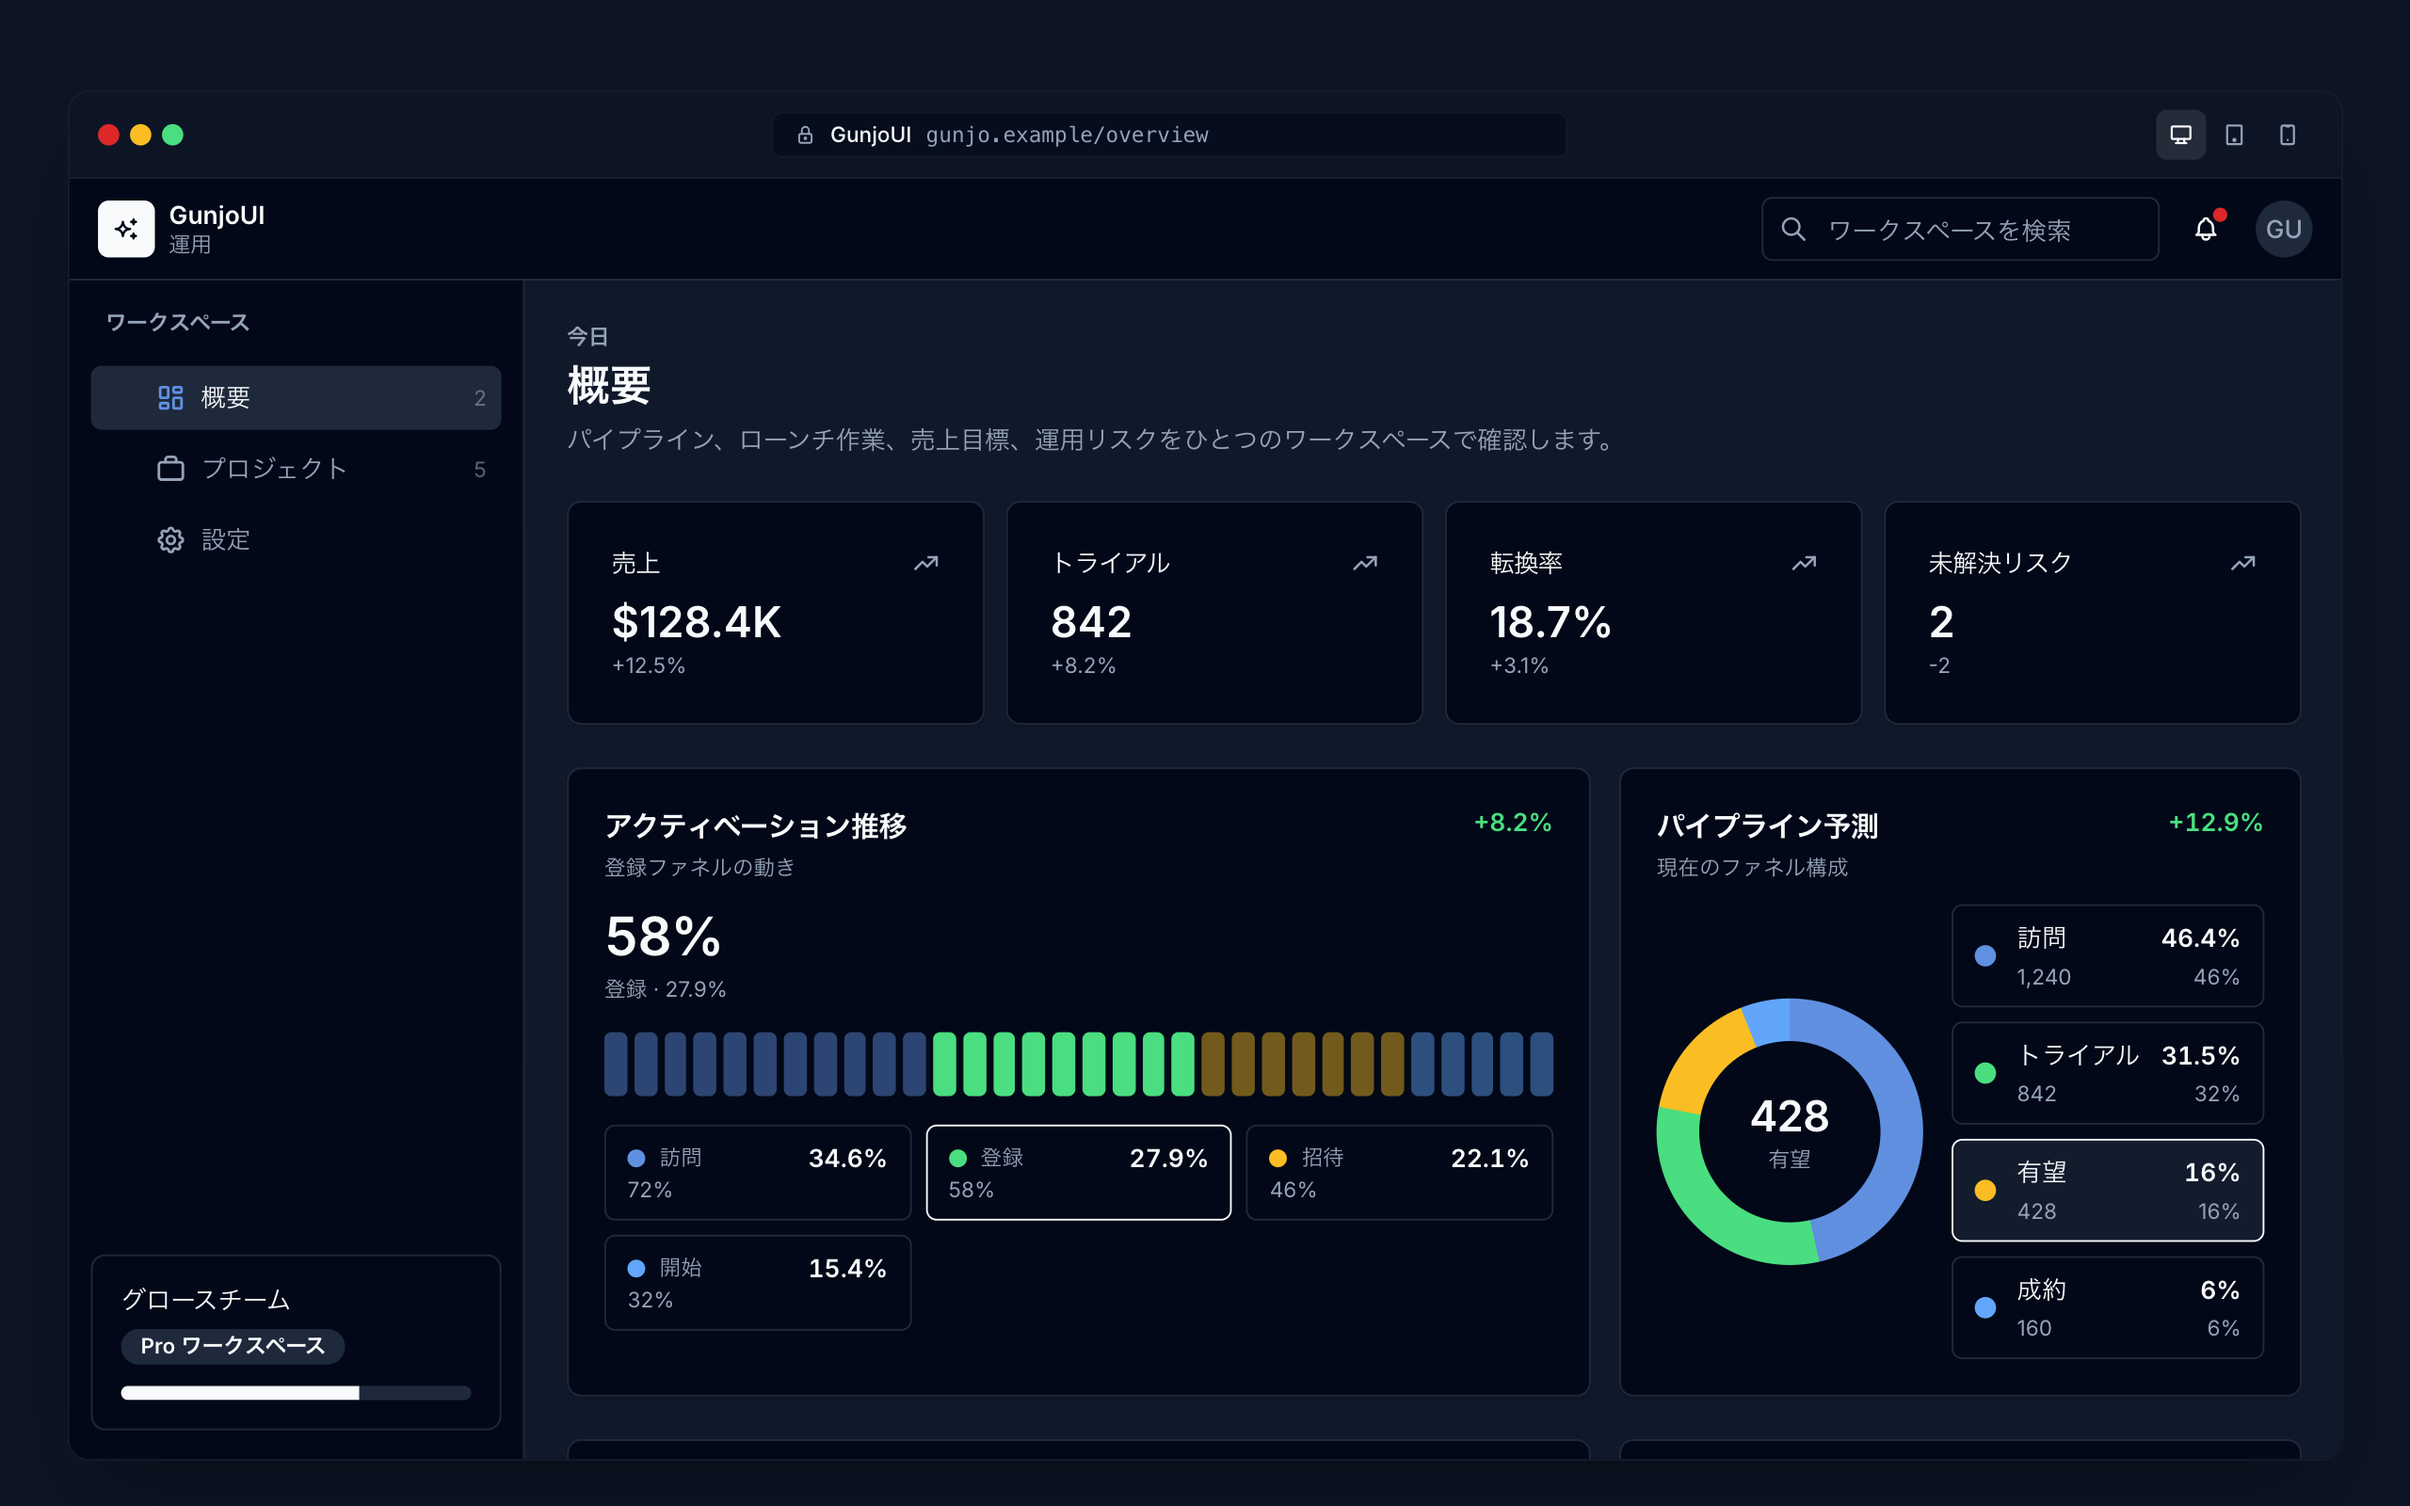
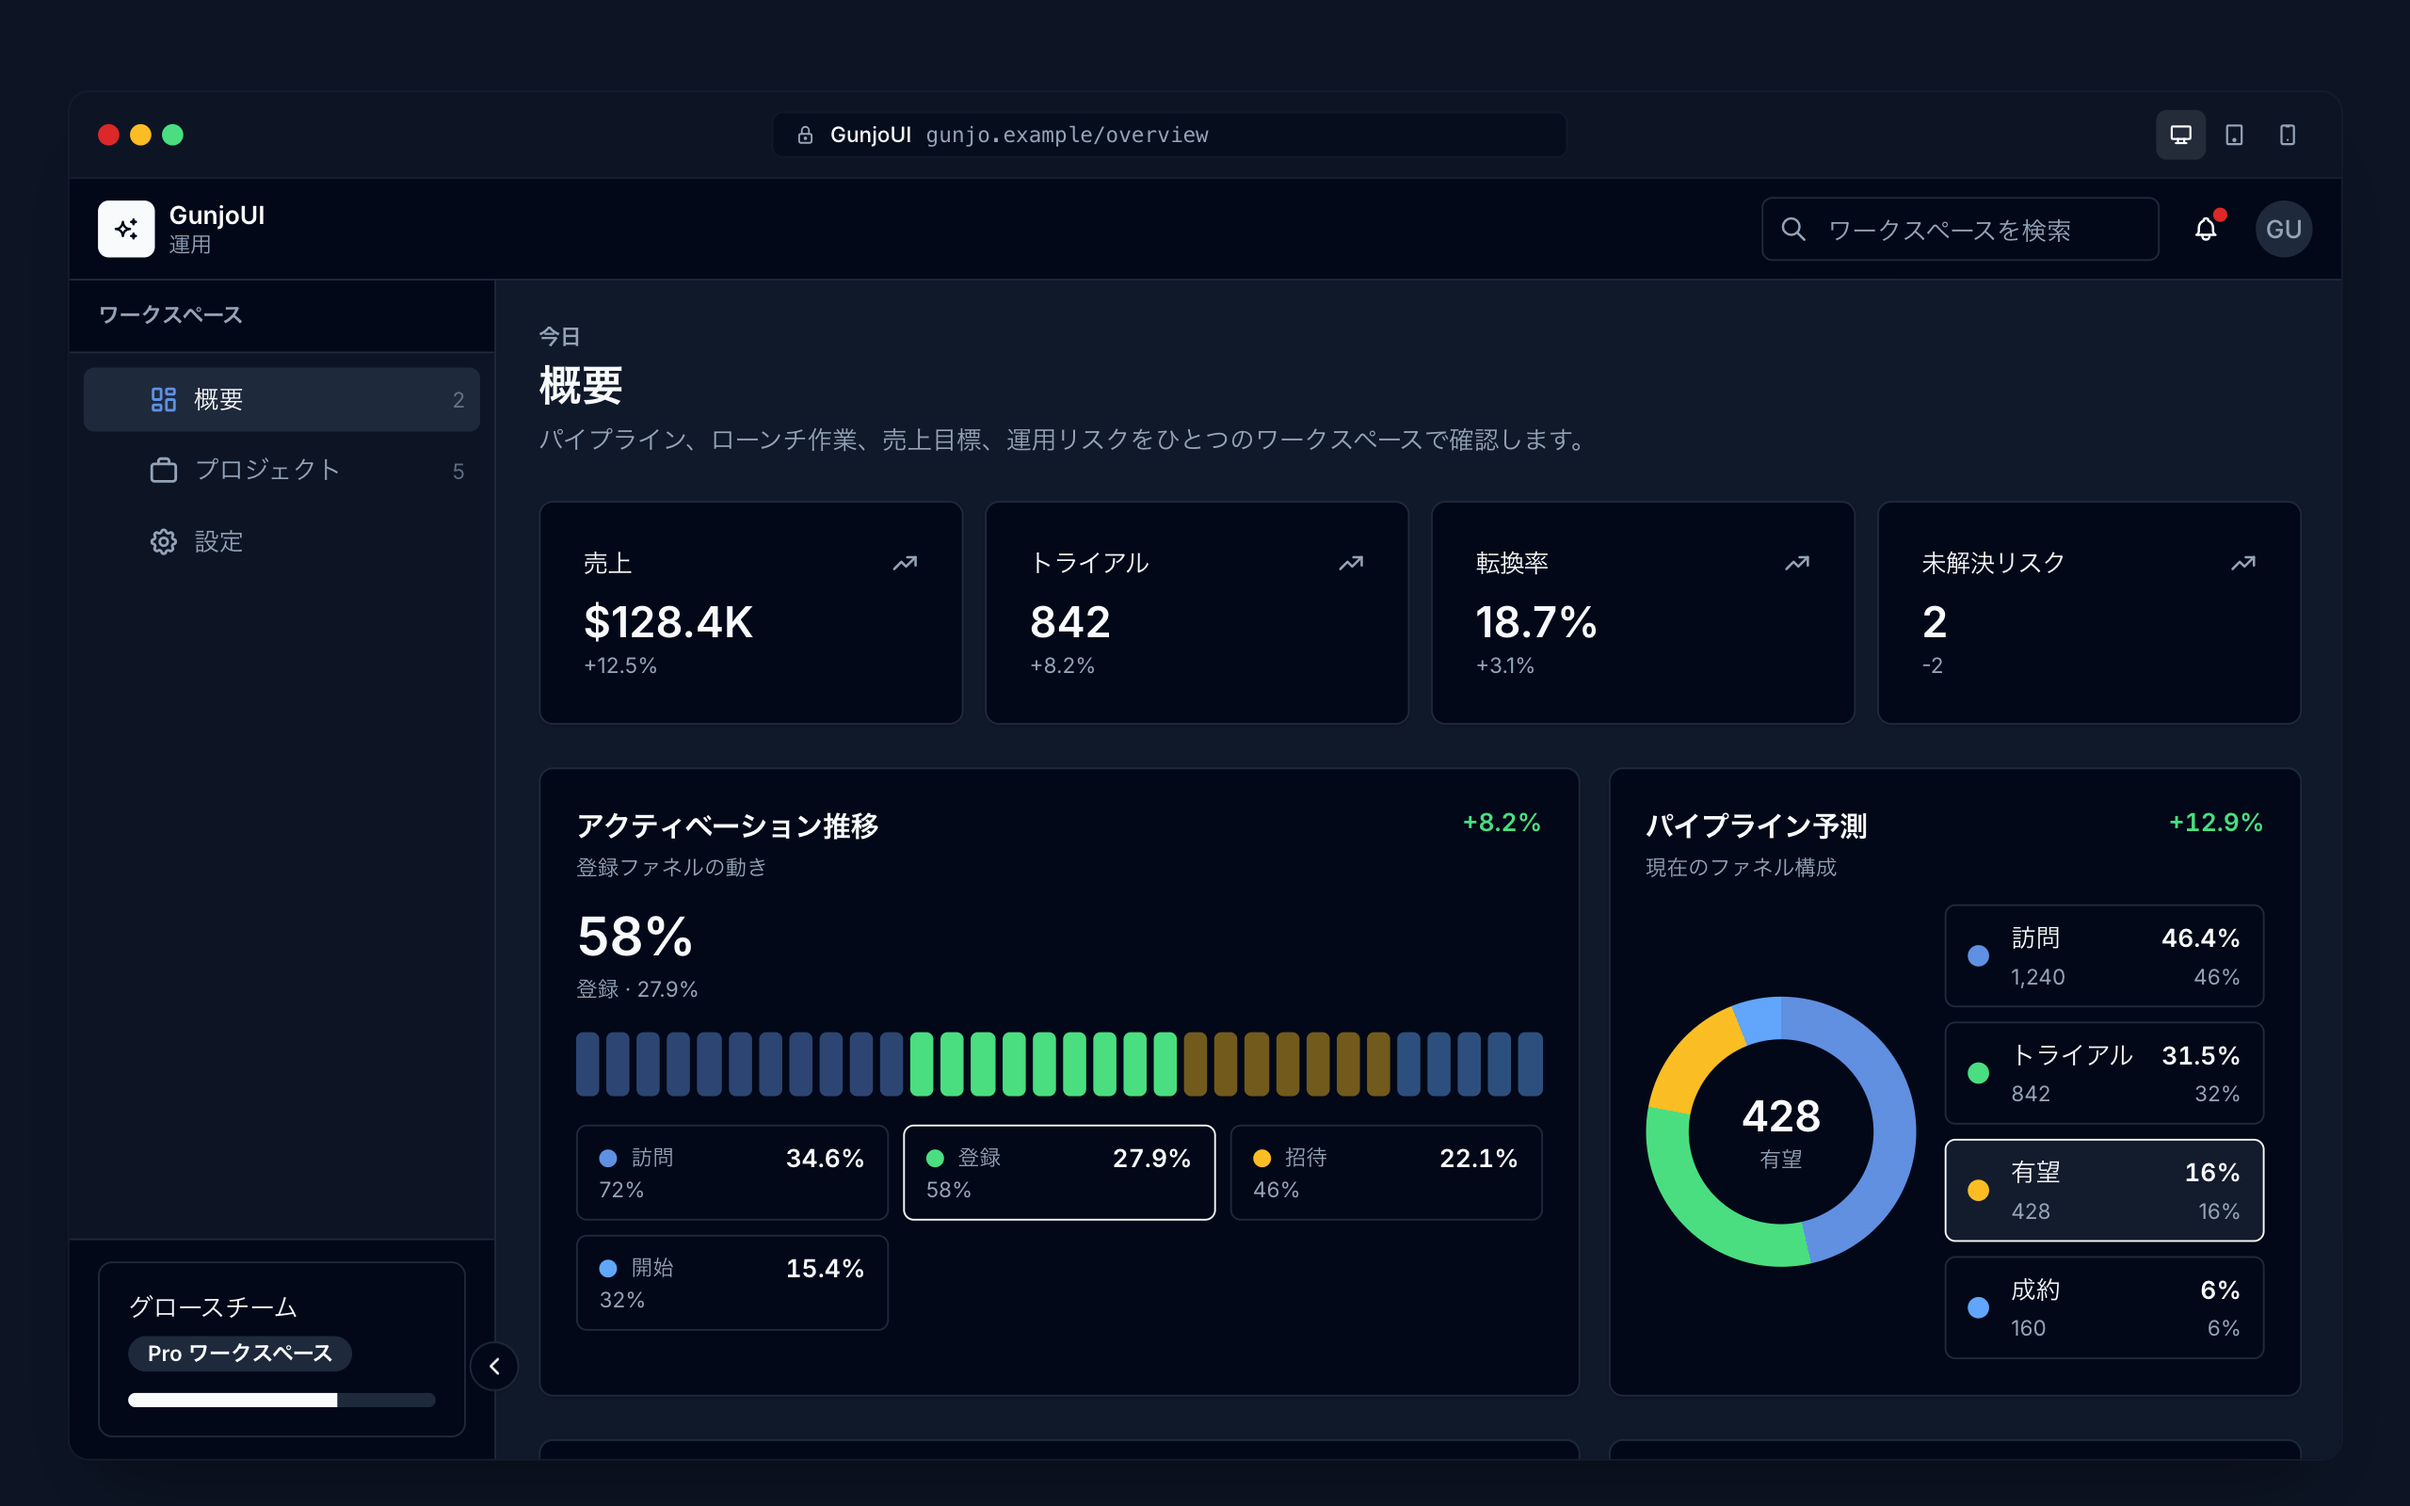
fix(docs): drop the collapsed-sidebar workarounds the fix removes
The Sidebar docs page branched on `collapsed` to swap SidebarItem for a
TooltipButton, and pinned `justify-center px-2` onto the header and
footer — the exact workarounds #692 makes unnecessary. Both the live
demo and the code sample readers copy now use SidebarItem throughout.

SidebarDemo hand-rolled its nav rows as plain buttons, so it gained
neither the tooltip nor the active semantics; it composes SidebarItem
now, as the docs site is supposed to.

Refreshed the dashboard pattern thumbnail, which shows the rail.

Refs #692

diff --git a/app/docs/components/sidebar/page.tsx b/app/docs/components/sidebar/page.tsx
@@ -7,7 +7,7 @@ import { CodeCopyButton, ComponentLayout, ComponentPreview } from "@/components/
 import { PropsTable } from "@/components/doc/PropsTable";
 import { useLocale } from "@/components/providers/LocaleProvider";
 import navigationMetadata from "@design/navigation-metadata.json";
-import { Avatar, AvatarFallback, Sidebar, SidebarBody, SidebarFooter, SidebarHeader, SidebarItem, SidebarProvider, SidebarToggle, TooltipButton, useSidebar } from "@gunjo/ui";
+import { Avatar, AvatarFallback, Sidebar, SidebarBody, SidebarFooter, SidebarHeader, SidebarItem, SidebarProvider, SidebarToggle, useSidebar } from "@gunjo/ui";
 import {
     IconChartBar as BarChart3,
     IconHome as Home,
@@ -30,7 +30,7 @@ function SidebarContent({ initialActive = "projects" }: { initialActive?: string
 
     return (
         <Sidebar className="min-h-[360px]">
-            <SidebarHeader className={collapsed ? "justify-center px-2" : undefined}>
+            <SidebarHeader>
                 <div className="grid h-7 w-7 shrink-0 place-items-center rounded-md bg-primary text-xs font-semibold text-primary-foreground">
                     G
                 </div>
@@ -39,42 +39,21 @@ function SidebarContent({ initialActive = "projects" }: { initialActive?: string
             <SidebarBody>
                 {NAV_ITEMS.map((item) => {
                     const Icon = item.icon;
-                    const active = activeId === item.id;
-                    const label = item.label[locale];
-
-                    if (collapsed) {
-                        return (
-                            <TooltipButton
-                                key={item.id}
-                                type="button"
-                                variant={active ? "secondary" : "ghost"}
-                                size="icon"
-                                className="h-9 w-full"
-                                tooltip={label}
-                                aria-label={label}
-                                aria-current={active ? "page" : undefined}
-                                onClick={() => setActiveId(item.id)}
-                            >
-                                <Icon className="h-4 w-4 shrink-0" />
-                            </TooltipButton>
-                        );
-                    }
-
                     return (
                         <SidebarItem
                             key={item.id}
                             id={item.id}
                             icon={<Icon className="h-4 w-4 shrink-0" />}
-                            label={label}
-                            isActive={active}
+                            label={item.label[locale]}
+                            isActive={activeId === item.id}
                             onClick={() => setActiveId(item.id)}
                             reserveChevronSpace={false}
                         />
                     );
                 })}
             </SidebarBody>
-            <SidebarFooter className={collapsed ? "justify-center px-2" : undefined}>
-                <Avatar className="h-7 w-7">
+            <SidebarFooter>
+                <Avatar className="h-7 w-7 shrink-0">
                     <AvatarFallback>UI</AvatarFallback>
                 </Avatar>
                 {!collapsed ? <span className="min-w-0 flex-1 truncate text-sm">{isJa ? "デザインチーム" : "Design team"}</span> : null}
@@ -106,7 +85,7 @@ export default function SidebarPage() {
     const { locale, sectionLabels } = useLocale();
     const isJa = locale === "ja";
 const code = `import * as React from "react"
-import { Avatar, AvatarFallback, Sidebar, SidebarBody, SidebarFooter, SidebarHeader, SidebarItem, SidebarProvider, SidebarToggle, TooltipButton, useSidebar } from "@gunjo/ui"
+import { Avatar, AvatarFallback, Sidebar, SidebarBody, SidebarFooter, SidebarHeader, SidebarItem, SidebarProvider, SidebarToggle, useSidebar } from "@gunjo/ui"
 import { IconChartBar as BarChart3, IconHome as Home, IconLayoutKanban as FolderKanban, IconSettings as Settings } from "@tabler/icons-react"
 
 const navItems = [
@@ -122,48 +101,30 @@ function SidebarContent() {
 
   return (
     <Sidebar className="min-h-[360px]">
-      <SidebarHeader className={collapsed ? "justify-center px-2" : undefined}>
+      <SidebarHeader>
         <div className="grid h-7 w-7 shrink-0 place-items-center rounded-md bg-primary text-xs font-semibold text-primary-foreground">G</div>
         {!collapsed ? <span className="truncate text-sm font-semibold">Gunjo UI</span> : null}
       </SidebarHeader>
       <SidebarBody>
+        {/* SidebarItem reads the collapse from the provider: the row goes
+            icon-only and its label moves into a tooltip on its own. */}
         {navItems.map((item) => {
           const Icon = item.icon
-          const active = activeId === item.id
-
-          if (collapsed) {
-            return (
-              <TooltipButton
-                key={item.id}
-                type="button"
-                variant={active ? "secondary" : "ghost"}
-                size="icon"
-                className="h-9 w-full"
-                tooltip={item.label}
-                aria-label={item.label}
-                aria-current={active ? "page" : undefined}
-                onClick={() => setActiveId(item.id)}
-              >
-                <Icon className="h-4 w-4 shrink-0" />
-              </TooltipButton>
-            )
-          }
-
           return (
             <SidebarItem
               key={item.id}
               id={item.id}
               icon={<Icon className="h-4 w-4 shrink-0" />}
               label={item.label}
-              isActive={active}
+              isActive={activeId === item.id}
               onClick={() => setActiveId(item.id)}
               reserveChevronSpace={false}
             />
           )
         })}
       </SidebarBody>
-      <SidebarFooter className={collapsed ? "justify-center px-2" : undefined}>
-        <Avatar className="h-7 w-7"><AvatarFallback>UI</AvatarFallback></Avatar>
+      <SidebarFooter>
+        <Avatar className="h-7 w-7 shrink-0"><AvatarFallback>UI</AvatarFallback></Avatar>
         {!collapsed ? <span className="min-w-0 flex-1 truncate text-sm">${isJa ? "デザインチーム" : "Design team"}</span> : null}
       </SidebarFooter>
       <SidebarToggle
@@ -197,7 +158,6 @@ export function SidebarLayout() {
                 { name: "Sidebar", href: "/docs/components/sidebar" },
                 { name: "SidebarItem", href: "/docs/components/sidebar-item" },
                 { name: "SidebarToggle", href: "/docs/components/sidebar" },
-                { name: "TooltipButton", href: "/docs/components/tooltip-button" },
                 { name: "Avatar", href: "/docs/components/avatar" },
             ]}
             relatedComponents={[

diff --git a/app/components/demos/SidebarDemo.tsx b/app/components/demos/SidebarDemo.tsx
@@ -8,13 +8,14 @@ import {
     SidebarBody,
     SidebarFooter,
     SidebarHeader,
+    SidebarItem,
     SidebarProvider,
     SidebarToggle,
     useSidebar,
 } from "@gunjo/ui";
 
 const NAV_ITEMS = [
-    { id: "dashboard", icon: "📊", label: "Dashboard", active: true },
+    { id: "dashboard", icon: "📊", label: "Dashboard" },
     { id: "projects", icon: "📁", label: "Projects" },
     { id: "team", icon: "👥", label: "Team" },
     { id: "settings", icon: "⚙", label: "Settings" },
@@ -22,30 +23,32 @@ const NAV_ITEMS = [
 
 function SidebarBodyDemo() {
     const { collapsed } = useSidebar();
+    const [active, setActive] = React.useState("dashboard");
     return (
         <Sidebar>
             <SidebarHeader>
-                <div className="h-6 w-6 rounded bg-foreground" aria-hidden />
+                <div className="h-6 w-6 shrink-0 rounded bg-foreground" aria-hidden />
                 {!collapsed && (
                     <span className="text-sm font-semibold">Workspace</span>
                 )}
             </SidebarHeader>
             <SidebarBody>
+                {/* SidebarItem reads the collapse from the provider, so the
+                    rows go icon-only with a tooltip on their own. */}
                 {NAV_ITEMS.map((item) => (
-                    <button
+                    <SidebarItem
                         key={item.id}
-                        type="button"
-                        className={`flex items-center gap-2 rounded-md px-2 py-2 text-sm hover:bg-muted ${
-                            item.active ? "bg-muted font-medium" : ""
-                        }`}
-                    >
-                        <span>{item.icon}</span>
-                        {!collapsed && <span>{item.label}</span>}
-                    </button>
+                        id={item.id}
+                        icon={<span aria-hidden>{item.icon}</span>}
+                        label={item.label}
+                        isActive={active === item.id}
+                        reserveChevronSpace={false}
+                        onClick={() => setActive(item.id)}
+                    />
                 ))}
             </SidebarBody>
             <SidebarFooter>
-                <Avatar className="h-6 w-6">
+                <Avatar className="h-6 w-6 shrink-0">
                     <AvatarFallback>HK</AvatarFallback>
                 </Avatar>
                 {!collapsed && <span className="text-sm">hikaby</span>}
